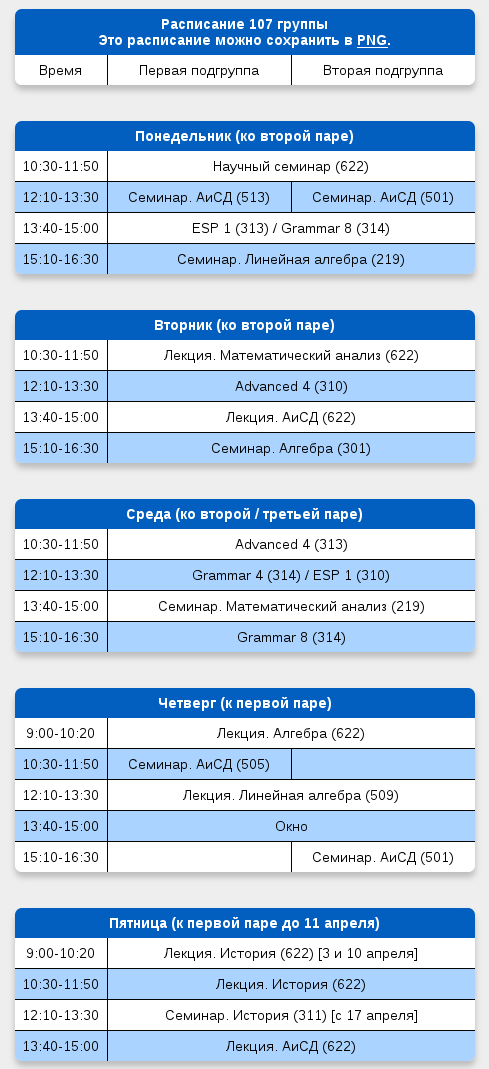
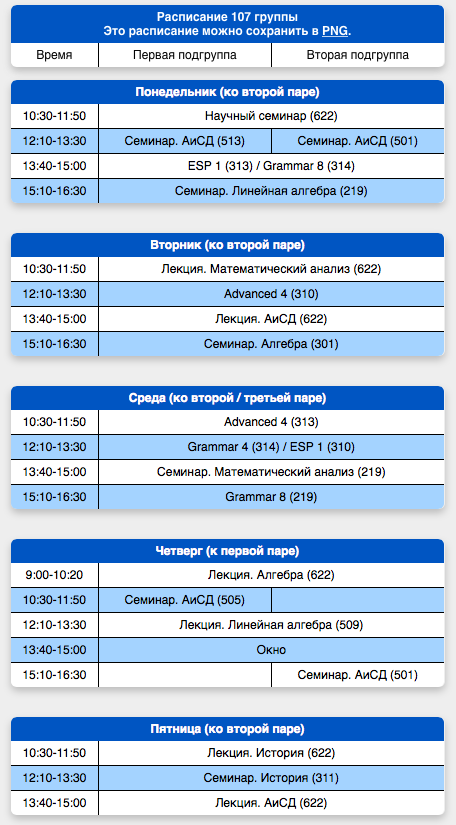
Content update.

diff --git a/index.html b/index.html
@@ -90,7 +90,7 @@
             </tr>
             <tr>
                 <td width="20%">15:10-16:30</td>
-                <td width="80%" colspan="2"> Grammar 8 (314) </td>
+                <td width="80%" colspan="2"> Grammar 8 (219) </td>
             </tr>
         </table>
     </div>
@@ -128,11 +128,7 @@
     <div class="CSSTable">
         <table cellpadding="0" width="500">
             <tr>
-                <td colspan="3"> Пятница (к первой паре до 11 апреля)</td>
-            </tr>
-            <tr>
-                <td width="20%">9:00-10:20</td>
-                <td width="80%" colspan="2"> Лекция. История (622) [3 и 10 апреля]</td>
+                <td colspan="3"> Пятница (ко второй паре) </td>
             </tr>
             <tr>
                 <td width="20%">10:30-11:50</td>
@@ -140,7 +136,7 @@
             </tr>
             <tr>
                 <td width="20%">12:10-13:30</td>
-                <td width="80%" colspan="2"> Семинар. История (311) [с 17 апреля]</td>
+                <td width="80%" colspan="2"> Семинар. История (311) </td>
             </tr>
             <tr>
                 <td width="20%">13:40-15:00</td>
